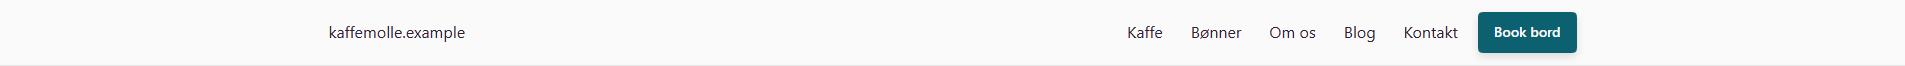
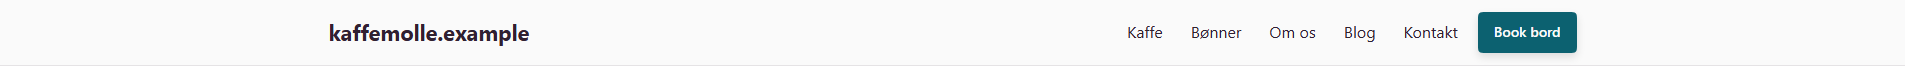
Lots of work

Changed region(s): [[0.1549, 0.3636, 0.2787, 0.6364]]

diff --git a/src/lib/theme/fontResolver.ts b/src/lib/theme/fontResolver.ts
@@ -1,25 +1,16 @@
-import { localFontMap } from "@/src/lib/theme/fonts";
-
 const SYSTEM_FALLBACK =
   'ui-sans-serif, system-ui, sans-serif, "Apple Color Emoji", "Segoe UI Emoji", "Segoe UI Symbol", "Noto Color Emoji"';
-
-// Case-insensitive lookup i localFontMap
-function findLocalFont(name: string) {
-  const normalized = name.trim().toLowerCase();
-  for (const [key, value] of Object.entries(localFontMap)) {
-    if (key.toLowerCase() === normalized) return value;
-  }
-  return null;
-}
 
 // Byg Bunny Fonts URL med specifikke vægte (IKKE range-syntaks)
 function buildBunnyUrl(fontName: string): string {
   const slug = fontName.trim().replace(/\s+/g, "+");
+  // swap: render-blocking stylesheet → font klar ved paint, vist på første load
+  // uden hop. optional gav fallback + 2-reload på uncachet load.
   return `https://fonts.bunny.net/css?family=${slug}:300,400,500,600,700,800&display=swap`;
 }
 
 export interface FontConfig {
-  /** CSS-variabel-klasse til <html> (tom string hvis Bunny) */
+  /** CSS-variabel-klasse til <html> (altid "" — Bunny bruger ikke variabler) */
   htmlClass: string;
   /** Bunny preconnect + stylesheet links nødvendige */
   bunny: { preconnect: true; stylesheet: string } | null;
@@ -30,10 +21,12 @@ export interface FontConfig {
 
 /**
  * Resolver kundens font-valg fra Prismic settings.
- * Prioritet: custom_font_input → font_select → "System standard"
+ * Prioritet: custom_font_input → font_select → "System standard".
  *
- * Hvis kunden skriver en lokal font (fx "Inter") i custom-feltet,
- * bruges den lokale next/font version i stedet for Bunny.
+ * Alle ikke-system-fonts hentes fra Bunny (render-blocking stylesheet → font
+ * klar ved første paint, ingen FOUT/hop). Erstatter next/font-self-hosting, der
+ * i vores runtime-valgte setup (én af mange fonts pr. tenant) enten gav hop
+ * (swap) eller 2-reload (optional) — preload ville ramme alle fonts.
  */
 export function resolveFonts(settings: {
   custom_font_input?: string | null;
@@ -52,28 +45,10 @@ export function resolveFonts(settings: {
     };
   }
 
-  const localMatch = findLocalFont(chosenName);
-
-  if (localMatch) {
-    const fontValue = `${localMatch.name}, ${SYSTEM_FALLBACK}`;
-    return {
-      htmlClass: localMatch.class,
-      bunny: null,
-      headingFont: fontValue,
-      bodyFont: fontValue,
-    };
-  }
-
-  // Custom font fra Bunny Fonts med solid system-fallback
-  const safeName = `"${chosenName}"`;
-  const fontValue = `${safeName}, ${SYSTEM_FALLBACK}`;
-  const bunnyUrl = buildBunnyUrl(chosenName);
+  const fontValue = `"${chosenName}", ${SYSTEM_FALLBACK}`;
   return {
     htmlClass: "",
-    bunny: {
-      preconnect: true,
-      stylesheet: bunnyUrl,
-    },
+    bunny: { preconnect: true, stylesheet: buildBunnyUrl(chosenName) },
     headingFont: fontValue,
     bodyFont: fontValue,
   };

diff --git a/app/globals.css b/app/globals.css
@@ -171,6 +171,16 @@
 }
 
 @layer components {
+  .shadow-evi {
+    box-shadow:
+      0 20px 25px -5px color-mix(in oklch, currentColor 18%, transparent),
+      0 8px 10px -6px color-mix(in oklch, currentColor 14%, transparent);
+  }
+  .shadow-evi-lg {
+    box-shadow: 0 25px 50px -12px
+      color-mix(in oklch, currentColor 30%, transparent);
+  }
+
   /* A. Solide temaer */
   .theme-light {
     --theme-bg: var(--color-light);
@@ -345,7 +355,11 @@
     background-color: color-mix(in oklch, currentColor 8%, transparent);
   }
   .theme-surface-primary {
-    background-color: color-mix(in oklch, var(--color-primary) 20%, transparent);
+    background-color: color-mix(
+      in oklch,
+      var(--color-primary) 20%,
+      transparent
+    );
   }
   .theme-surface-secondary {
     background-color: color-mix(
@@ -390,7 +404,11 @@
     );
   }
   .theme-surface-dark-gradient {
-    background-image: linear-gradient(to bottom, var(--color-dark), transparent);
+    background-image: linear-gradient(
+      to bottom,
+      var(--color-dark),
+      transparent
+    );
   }
 
   /* ═══════════════════════════════════════════════════════
@@ -1002,7 +1020,11 @@
   /* Tynd Evi-tematiseret scrollbar (Baseline 2024, a11y-sikker) + edge-fade
      så peekende naboer toner ud som scroll-hint. */
   scrollbar-width: thin;
-  scrollbar-color: color-mix(in oklab, var(--color-primary, currentColor) 45%, transparent)
+  scrollbar-color: color-mix(
+      in oklab,
+      var(--color-primary, currentColor) 45%,
+      transparent
+    )
     transparent;
   --evi-track-fade: linear-gradient(
     to right,

diff --git a/src/components/ui/EviBackdropImage.tsx b/src/components/ui/EviBackdropImage.tsx
@@ -31,9 +31,9 @@ export type EviBackdropImageProps = {
 
 /**
  * Kvadratisk billede med en blød, let roteret farve-flade bagved → giver dybde.
- * Baggrunden er dekorativ (aria-hidden). Rotationen kan stikke lidt ud; hold
- * den i en container der clipper vandret (EviSection gør det) for at undgå
- * vandret scroll på mobil. Valgfrit `mobileField` → 4:3-crop < 768px.
+ * Baggrunden er dekorativ (aria-hidden). Fylder hele kolonnen; flappen + dens
+ * rotation holdes INDE i boksen via proportional padding (% af bredden), så
+ * intet overflower — ingen afhængighed af vandret clip. `mobileField` → 4:3.
  */
 export function EviBackdropImage({
   field,
@@ -49,14 +49,12 @@ export function EviBackdropImage({
   return (
     <div
       data-slot="evi-backdrop-image"
-      className={cn("relative isolate mx-auto w-full max-w-lg", className)}
+      className={cn("relative isolate w-full p-[5%]", className)}
     >
       <div
         aria-hidden
         className={cn(
-          // -inset-3: lidt større end billedet så tinten peeker jævnt rundt.
-          // -rotate-3: lille vinkel → blid dybde (ikke en skæv "kort"-effekt).
-          "absolute -inset-3 -z-10 -rotate-3 rounded-evi",
+          "absolute inset-[3%] -z-10 -rotate-3 rounded-evi",
           backdropClass[backdrop],
         )}
       />
@@ -68,7 +66,7 @@ export function EviBackdropImage({
         variant="plain"
         imageClassName="object-cover"
         priority={priority}
-        className="rounded-evi shadow-xl"
+        className="rounded-evi shadow-evi"
       />
     </div>
   );

diff --git a/prismicio-types.d.ts b/prismicio-types.d.ts
@@ -964,6 +964,16 @@ export interface HeroSliceSplitPrimary {
 	image: prismic.ImageField<never>;
 	
 	/**
+	 * Billede (mobil) field in *Hero → Split → Primary*
+	 *
+	 * - **Field Type**: Image
+	 * - **Placeholder**: Valgfrit mobil-crop (4:3) — ellers bruges desktop-billedet
+	 * - **API ID Path**: hero.split.primary.image_mobile
+	 * - **Documentation**: https://prismic.io/docs/fields/image
+	 */
+	image_mobile: prismic.ImageField<never>;
+	
+	/**
 	 * Farve bag billede field in *Hero → Split → Primary*
 	 *
 	 * - **Field Type**: Select
@@ -984,16 +994,6 @@ export interface HeroSliceSplitPrimary {
 	 * - **Documentation**: https://prismic.io/docs/fields/select
 	 */
 	background_theme: prismic.SelectField<"Lys" | "Mørk" | "Primær" | "Sekundær" | "Mørk blød" | "Primær blød" | "Sekundær blød", "filled">;
-	
-	/**
-	 * Billede (mobil) field in *Hero → Split → Primary*
-	 *
-	 * - **Field Type**: Image
-	 * - **Placeholder**: Valgfrit mobil-crop (4:3) — ellers bruges desktop-billedet
-	 * - **API ID Path**: hero.split.primary.image_mobile
-	 * - **Documentation**: https://prismic.io/docs/fields/image
-	 */
-	image_mobile: prismic.ImageField<never>;
 }
 
 /**

diff --git a/src/components/ui/EviPhoneMockup.tsx b/src/components/ui/EviPhoneMockup.tsx
@@ -62,7 +62,7 @@ export function EviPhoneMockup({
         // nested-radius-regel), så hjørnerne følger samme bue ved enhver skala.
         "relative mx-auto aspect-18/37 [--pw:var(--evi-phone-w,min(22.5rem,100%))] [--frame-r:calc(var(--pw)/7.5)] [--frame-p:calc(var(--pw)/30)] w-(--pw)",
         "rounded-(--frame-r) bg-evi-dark p-(--frame-p)",
-        "shadow-2xl ring-1 ring-evi-light/20 ring-inset",
+        "shadow-evi-lg border border-evi-light/20",
         className,
       )}
     >

diff --git a/slices/FooterColumnLinks/mock.ts b/slices/FooterColumnLinks/mock.ts
@@ -10,6 +10,9 @@ export const context: EviFooterSliceContext = {
   linkResolver: () => "/",
 };
 
+// w-max: hug indhold (ellers stretcher body-flex previewet til fuld bredde) → ingen wrap.
+export const previewWrapperClassName = "w-max p-8";
+
 export const mock: Record<string, Content.FooterColumnLinksSlice> = {
   default: {
     id: "mock-footer-column-links-default",

diff --git a/slices/FooterColumnText/mock.ts b/slices/FooterColumnText/mock.ts
@@ -9,6 +9,9 @@ export const context: EviFooterSliceContext = {
   linkResolver: () => "/",
 };
 
+// w-max: hug indhold (ellers stretcher body-flex previewet til fuld bredde) → ingen wrap.
+export const previewWrapperClassName = "w-max p-8";
+
 export const mock: Record<string, Content.FooterColumnTextSlice> = {
   default: {
     id: "mock-footer-column-text-default",
